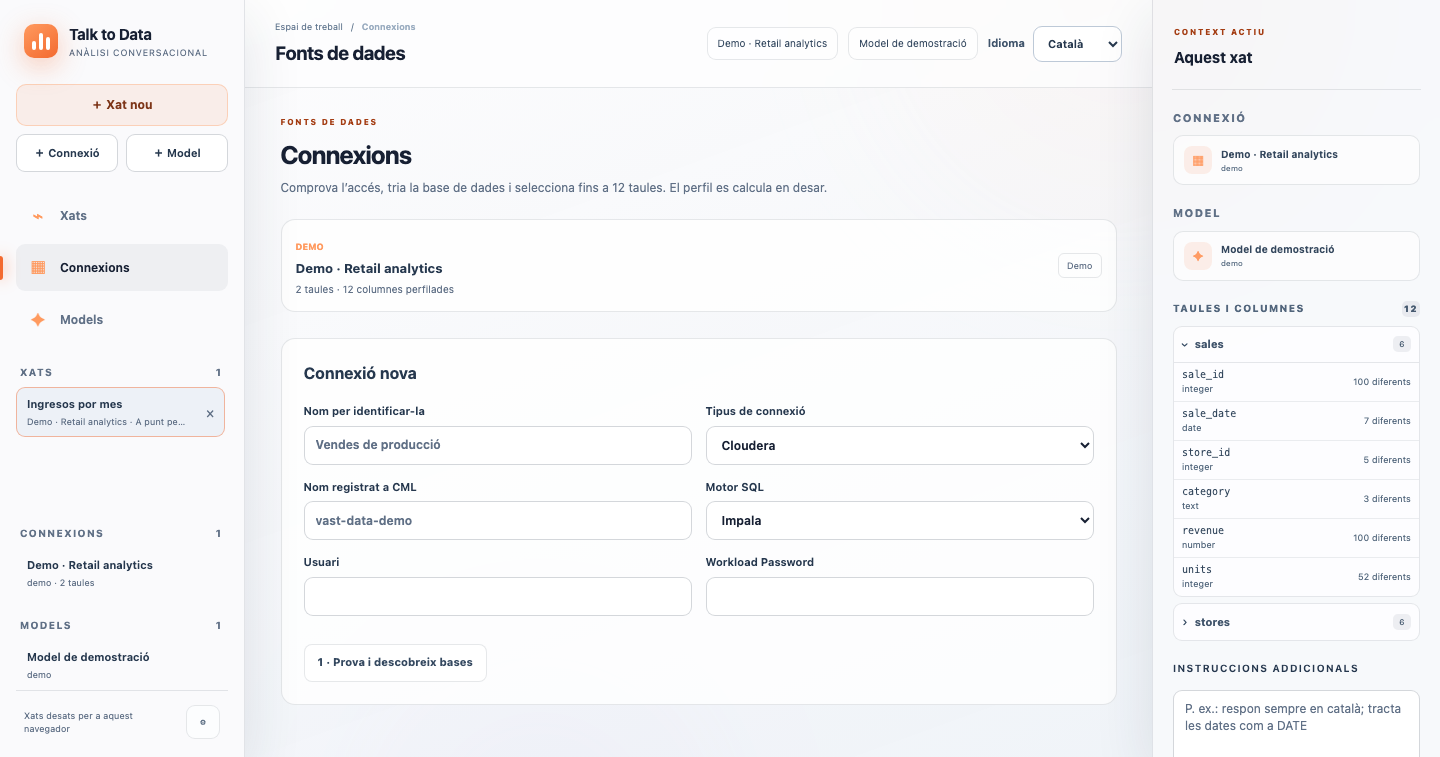
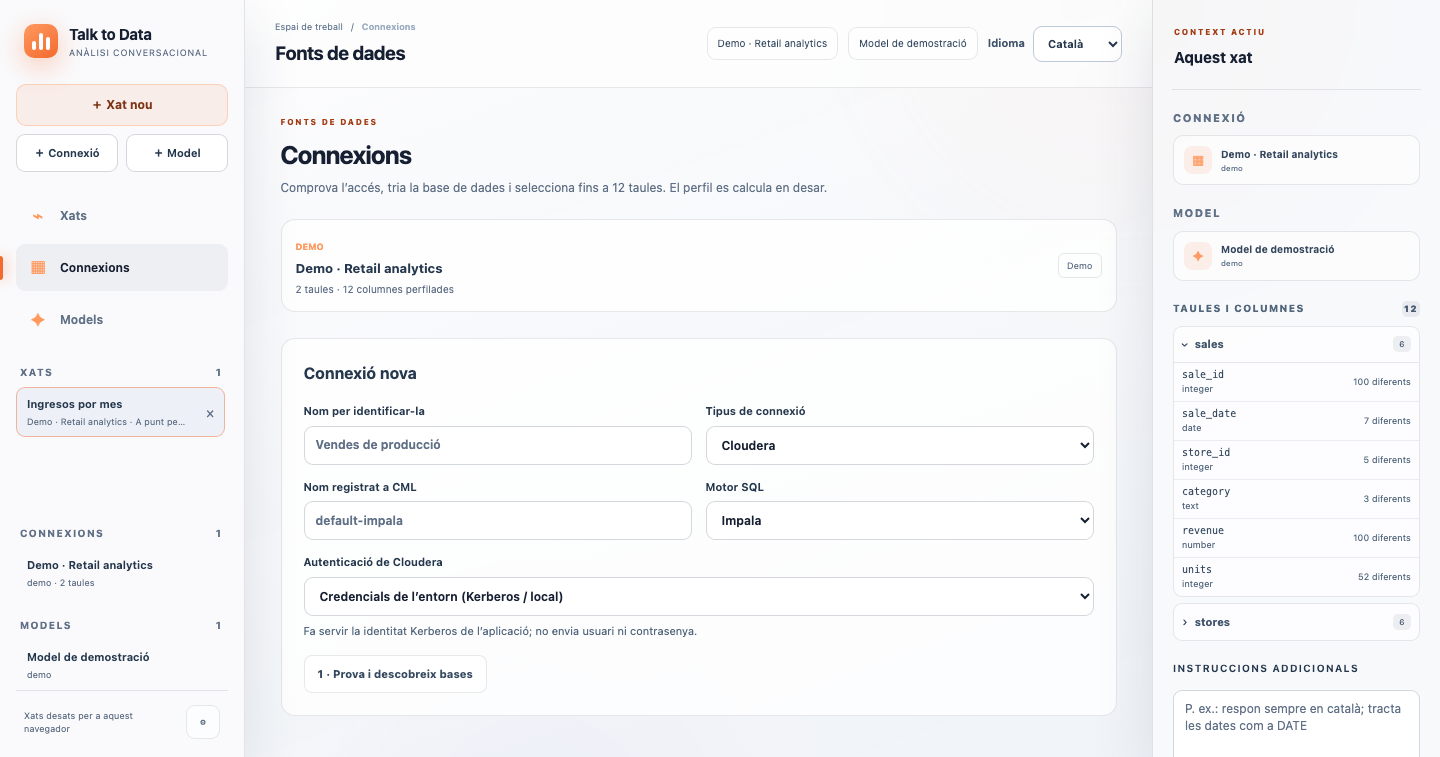
Support runtime Kerberos authentication for CML connections

diff --git a/static/style.css b/static/style.css
@@ -76,6 +76,7 @@ html[data-theme="light"] .eyebrow,html[data-theme="light"] .connection-route spa
 .sidebar .main-nav{margin-top:20px}.sidebar-lists{display:grid;align-content:start;gap:20px;min-height:0;flex:1;overflow:auto;margin-top:22px;padding-right:3px}.sidebar-lists section{min-width:0}.sidebar-lists h2{display:flex;justify-content:space-between;margin:0 4px 7px;color:var(--muted);font-size:10px;font-weight:750;letter-spacing:.13em}.sidebar-lists h2 span{letter-spacing:0}.sidebar-list{display:grid;gap:4px}.sidebar-record{display:flex;align-items:center;min-width:0;border:1px solid transparent;border-radius:9px}.sidebar-record:hover,.sidebar-record.selected{border-color:var(--line);background:rgba(255,255,255,.05)}.sidebar-record button:first-child{min-width:0;flex:1;padding:8px 10px;border:0;color:var(--white);background:transparent;text-align:left;cursor:pointer}.sidebar-record strong,.sidebar-record small{display:block;overflow:hidden;text-overflow:ellipsis;white-space:nowrap}.sidebar-record strong{font-size:11px;font-weight:650}.sidebar-record small{margin-top:2px;color:var(--muted);font-size:9px}.record-delete{width:28px;height:28px;border:0;border-radius:7px;color:var(--muted);background:transparent;cursor:pointer}.record-delete:hover{color:var(--coral);background:rgba(255,120,95,.12)}.sidebar-foot{gap:8px;color:var(--muted);font-size:9px}.sidebar-foot .icon-button{flex:0 0 auto}
 .view-pane{min-height:0;flex:1}.chat-pane{display:flex;flex-direction:column}.management-pane{overflow:auto}.management-content{width:min(900px,100%);margin:0 auto;padding:28px 32px 60px}.management-intro{margin-bottom:22px}.management-intro h2{margin:0 0 5px;font-size:25px;letter-spacing:-.03em}.management-intro p:last-child{max-width:650px;margin:0;color:var(--muted);font-size:12px}.catalog-cards{display:grid;grid-template-columns:repeat(auto-fit,minmax(240px,1fr));gap:10px;margin-bottom:26px}.catalog-card,.editor-card{border:1px solid var(--line);border-radius:14px;background:rgba(255,255,255,.035)}.catalog-card{display:flex;align-items:center;justify-content:space-between;gap:12px;min-width:0;padding:14px}.catalog-card>div{min-width:0}.catalog-card h3{overflow:hidden;margin:4px 0;color:var(--white);font-size:13px;text-overflow:ellipsis;white-space:nowrap}.catalog-card p{overflow:hidden;margin:0;color:var(--muted);font-size:10px;text-overflow:ellipsis;white-space:nowrap}.card-kicker{color:var(--orange-soft);font-size:9px;font-weight:750;text-transform:uppercase}.builtin-badge{padding:5px 8px;border:1px solid var(--line);border-radius:6px;color:var(--muted);font-size:9px}.editor-card{padding:22px}.editor-card h3{margin:0 0 18px;font-size:16px}.editor-card label,.compact-dialog>label,.context-panel label{display:grid;gap:6px;margin-bottom:14px;color:var(--white);font-size:11px;font-weight:650}.editor-card input,.editor-card select,.compact-dialog select,.context-panel textarea{width:100%;min-height:39px;padding:9px 11px;border:1px solid var(--line-strong);border-radius:9px;outline:0;color:var(--white);background:var(--navy-850);font-size:12px}.editor-card input:focus,.editor-card select:focus,.compact-dialog select:focus,.context-panel textarea:focus{border-color:var(--orange-soft);box-shadow:0 0 0 3px rgba(243,106,47,.11)}.editor-card input::placeholder,.context-panel textarea::placeholder{color:var(--muted)}.editor-card label small{font-weight:400}.editor-card .field-row{margin-bottom:0}.editor-card .connector-fields>label{margin-bottom:14px}.editor-actions{display:flex;align-items:center;flex-wrap:wrap;gap:12px;margin-top:14px}.editor-actions .inline-status{flex:1;min-width:180px;margin:0;font-size:11px}.editor-card .primary-button,.editor-card .secondary-button,.compact-dialog .primary-button,.compact-dialog .secondary-button{min-height:38px;font-size:11px}.editor-card .table-picker{max-height:260px;margin-top:10px}.editor-card .table-check{min-height:38px}.editor-card .table-check b{font-size:11px}.editor-card .section-heading p{font-size:10px}.editor-card .text-button{font-size:11px}.editor-card .inline-status.error,.compact-dialog .inline-status.error{color:#ff958b}.editor-card button:disabled,.compact-dialog button:disabled{opacity:.52;cursor:not-allowed}
 .loading-state{margin:80px auto;color:var(--muted);text-align:center}.overview-message .answer-body>p{white-space:pre-wrap;line-height:1.65}.overview-message .answer-body{padding:16px 18px;border:1px solid var(--line);border-radius:13px;background:rgba(255,255,255,.035)}.overview-message .eyebrow{color:var(--orange-soft)}.overview-hint{color:var(--muted);font-size:10px}.context-panel textarea{min-height:95px;resize:vertical;line-height:1.45}.context-panel .context-section>small{color:var(--muted);font-size:9px}.context-panel .context-section>p{color:var(--muted);font-size:11px}.context-panel .schema-table summary{font-size:11px}.context-panel .schema-column b{font-size:10px}.context-panel .schema-column small,.context-panel .schema-column em{font-size:9px}.context-panel .context-label{font-size:10px}.context-panel .context-label.row b{font-size:9px}.source-pill{max-width:180px;overflow:hidden;text-overflow:ellipsis;white-space:nowrap}
+.editor-card .field-help{margin:-7px 0 16px;color:var(--muted);font-size:11px;line-height:1.5}html[data-theme="light"] .editor-card .field-help{color:#52667c}
 .compact-dialog{display:grid;gap:12px;padding:25px}.compact-dialog header{display:flex;justify-content:space-between;gap:16px}.compact-dialog header h2{margin:0;font-size:22px}.compact-dialog header p:last-child{margin:5px 0 0;color:var(--muted);font-size:11px}.compact-dialog header button{align-self:start;width:31px;height:31px;border:1px solid var(--line);border-radius:8px;color:var(--muted);background:transparent;cursor:pointer;font-size:19px}.compact-dialog>label{margin:0}.compact-dialog footer{display:flex;justify-content:flex-end;gap:9px;margin-top:6px}.selection-preview{padding:13px;border:1px solid var(--line);border-radius:9px;color:var(--muted);background:rgba(255,255,255,.025);font-size:11px}.preference-modules{display:flex;flex-wrap:wrap;gap:10px;border:0;padding:0}.preference-modules legend{margin-bottom:7px;color:var(--muted);font-size:11px}.preference-modules label{display:flex;align-items:center;gap:5px;padding:7px 9px;border:1px solid var(--line);border-radius:7px;font-size:11px}.preference-modules input{accent-color:var(--orange)}
 #new-chat-dialog,#preferences-dialog{width:min(530px,calc(100% - 28px));height:auto;max-height:calc(100% - 32px);overflow:auto}.compact-dialog .inline-status{font-size:11px}
 html[data-theme="light"] .side-create,html[data-theme="light"] .catalog-card,html[data-theme="light"] .editor-card,html[data-theme="light"] .overview-message .answer-body{color:#26384e;background:rgba(255,255,255,.82)}html[data-theme="light"] .sidebar-record strong,html[data-theme="light"] .catalog-card h3,html[data-theme="light"] .editor-card label,html[data-theme="light"] .compact-dialog>label,html[data-theme="light"] .context-panel label{color:#26384e}html[data-theme="light"] .sidebar-record:hover,html[data-theme="light"] .sidebar-record.selected{background:#edf1f7}html[data-theme="light"] .editor-card input,html[data-theme="light"] .editor-card select,html[data-theme="light"] .compact-dialog select,html[data-theme="light"] .context-panel textarea{color:#172033;background:white}html[data-theme="light"] .side-create:hover{color:#9e3e16}html[data-theme="light"] .selection-preview{background:#fff}

diff --git a/templates/index.html b/templates/index.html
@@ -5,7 +5,7 @@
   <meta name="theme-color" content="#07111f"><title>Talk to Data</title>
   <script>document.documentElement.dataset.theme=localStorage.getItem('ttd-theme')||'dark'</script>
   <link rel="stylesheet" href="https://unpkg.com/leaflet@1.9.4/dist/leaflet.css">
-  <link rel="stylesheet" href="/static/style.css?v=7">
+  <link rel="stylesheet" href="/static/style.css?v=8">
 </head>
 <body>
   <div class="ambient ambient-one"></div><div class="ambient ambient-two"></div>
@@ -32,7 +32,7 @@
         <div id="connection-cards" class="catalog-cards"></div>
         <form id="connection-form" class="editor-card" novalidate><h3>Nueva conexión</h3>
           <div class="field-row"><label>Nombre para reconocerla<input id="connection-label" required maxlength="80" placeholder="Ventas de producción"></label><label>Tipo de conexión<select id="connection-engine"><option value="cloudera">Cloudera</option><option value="postgresql">PostgreSQL</option><option value="trino">Trino</option></select></label></div>
-          <div class="connector-fields" data-engine="cloudera"><div class="field-row"><label>Nombre registrado en CML<input id="cloudera-name" placeholder="vast-data-demo"></label><label>Motor SQL<select id="cloudera-dialect"><option value="impala">Impala</option><option value="hive">Hive</option></select></label></div><div class="field-row"><label>Usuario<input id="cloudera-user" autocomplete="username"></label><label>Workload Password<input id="cloudera-password" type="password" autocomplete="current-password"></label></div></div>
+          <div class="connector-fields" data-engine="cloudera"><div class="field-row"><label>Nombre registrado en CML<input id="cloudera-name" placeholder="default-impala"></label><label>Motor SQL<select id="cloudera-dialect"><option value="impala">Impala</option><option value="hive">Hive</option></select></label></div><label>Autenticación Cloudera<select id="cloudera-auth-mode" aria-describedby="cloudera-auth-help cloudera-auth-credentials-help"><option value="runtime">Credenciales del runtime (Kerberos / on-premise)</option><option value="credentials">Usuario y Workload Password (Cloud / LDAP)</option></select></label><p id="cloudera-auth-help" class="field-help">Usa la identidad Kerberos de la aplicación; no envía usuario ni contraseña.</p><p id="cloudera-auth-credentials-help" class="field-help" hidden>Envía el usuario y la Workload Password a la conexión CML.</p><div id="cloudera-credential-fields" class="field-row" hidden><label>Usuario<input id="cloudera-user" autocomplete="username"></label><label>Workload Password<input id="cloudera-password" type="password" autocomplete="current-password"></label></div></div>
           <div class="connector-fields" data-engine="postgresql" hidden><label>URL del servidor<input id="postgres-url" placeholder="postgresql://servidor:5432"></label><div class="field-row"><label>Base inicial<input id="postgres-database" placeholder="postgres"></label><label>Usuario<input id="postgres-user" autocomplete="username"></label></div><label>Contraseña<input id="postgres-password" type="password" autocomplete="current-password"></label></div>
           <div class="connector-fields" data-engine="trino" hidden><label>JDBC URL<input id="trino-url" placeholder="jdbc:trino://warehouse:443/catalog/schema"></label><div class="field-row"><label>Usuario<input id="trino-user" autocomplete="username"></label><label>Contraseña <small>(opcional)</small><input id="trino-password" type="password" autocomplete="off"></label></div></div>
           <div class="editor-actions"><button id="discover-connection" type="button" class="secondary-button">1 · Probar y descubrir bases</button><span id="connection-status" class="inline-status" role="status"></span></div>
@@ -51,6 +51,6 @@
   <dialog id="preferences-dialog"><form id="preferences-form" class="compact-dialog" method="dialog"><header><div><p class="eyebrow">PREFERENCIAS</p><h2>Cómo responder</h2></div><button type="button" data-close-dialog aria-label="Cerrar">×</button></header><fieldset class="preference-modules"><legend>Módulos</legend><label><input type="checkbox" data-module="summary" checked> Resumen</label><label><input type="checkbox" data-module="table" checked> Tabla</label><label><input type="checkbox" data-module="chart" checked> Gráfica</label><label><input type="checkbox" data-module="map" checked> Mapa</label><label><input type="checkbox" data-module="sql" checked> SQL</label></fieldset><label>Idioma de la aplicación<select id="ui-language"><option value="es">Español</option><option value="ca">Català</option><option value="eu">Euskara</option><option value="gl">Galego</option><option value="en">English</option><option value="fr">Français</option><option value="it">Italiano</option><option value="de">Deutsch</option></select></label><label>Idioma de las respuestas<select id="model-language"><option value="es">Español</option><option value="ca">Català</option><option value="eu">Euskara</option><option value="gl">Galego</option><option value="en">English</option><option value="fr">Français</option><option value="it">Italiano</option><option value="de">Deutsch</option></select></label><label>Apariencia<select id="ui-theme"><option value="dark">Oscura</option><option value="light">Clara</option></select></label><footer><button type="button" class="secondary-button" data-close-dialog>Cancelar</button><button type="submit" class="primary-button">Guardar preferencias</button></footer></form></dialog>
   <div id="toast" role="status" aria-live="polite"></div>
   <script src="https://unpkg.com/leaflet@1.9.4/dist/leaflet.js" defer></script>
-  <script src="/static/i18n.js?v=7" defer></script>
-  <script src="/static/app.js?v=7" defer></script>
+  <script src="/static/i18n.js?v=8" defer></script>
+  <script src="/static/app.js?v=8" defer></script>
 </body></html>

diff --git a/static/i18n.js b/static/i18n.js
@@ -98,3 +98,13 @@ const accessibilityTranslations = {
   it: {'Nuevo chat':'Nuova chat','Navegación principal':'Navigazione principale','Secciones':'Sezioni','Contexto del chat':'Contesto della chat','Talk to Data, inicio':'Talk to Data, home','Conversational analytics':'Analisi conversazionale'},
   de: {'Nuevo chat':'Neuer Chat','Navegación principal':'Hauptnavigation','Secciones':'Bereiche','Contexto del chat':'Chatkontext','Talk to Data, inicio':'Talk to Data, Startseite','Conversational analytics':'Konversationsanalyse'},
 };
+
+const clouderaAuthTranslations = {
+  ca: {'Autenticación Cloudera':'Autenticació de Cloudera','Credenciales del runtime (Kerberos / on-premise)':'Credencials de l’entorn (Kerberos / local)','Usuario y Workload Password (Cloud / LDAP)':'Usuari i Workload Password (núvol / LDAP)','Usa la identidad Kerberos de la aplicación; no envía usuario ni contraseña.':'Fa servir la identitat Kerberos de l’aplicació; no envia usuari ni contrasenya.','Envía el usuario y la Workload Password a la conexión CML.':'Envia l’usuari i la Workload Password a la connexió CML.','Indica el nombre registrado de la conexión.':'Indica el nom registrat de la connexió.'},
+  eu: {'Autenticación Cloudera':'Cloudera autentifikazioa','Credenciales del runtime (Kerberos / on-premise)':'Exekuzio-inguruneko kredentzialak (Kerberos / lokala)','Usuario y Workload Password (Cloud / LDAP)':'Erabiltzailea eta Workload Password (hodeia / LDAP)','Usa la identidad Kerberos de la aplicación; no envía usuario ni contraseña.':'Aplikazioaren Kerberos identitatea erabiltzen du; ez du erabiltzaile-izenik edo pasahitzik bidaltzen.','Envía el usuario y la Workload Password a la conexión CML.':'Erabiltzailea eta Workload Password bidaltzen dizkio CML konexioari.','Indica el nombre registrado de la conexión.':'Adierazi konexioaren izen erregistratua.'},
+  gl: {'Autenticación Cloudera':'Autenticación de Cloudera','Credenciales del runtime (Kerberos / on-premise)':'Credenciais do contorno (Kerberos / local)','Usuario y Workload Password (Cloud / LDAP)':'Usuario e Workload Password (nube / LDAP)','Usa la identidad Kerberos de la aplicación; no envía usuario ni contraseña.':'Usa a identidade Kerberos da aplicación; non envía usuario nin contrasinal.','Envía el usuario y la Workload Password a la conexión CML.':'Envía o usuario e a Workload Password á conexión CML.','Indica el nombre registrado de la conexión.':'Indica o nome rexistrado da conexión.'},
+  en: {'Autenticación Cloudera':'Cloudera authentication','Credenciales del runtime (Kerberos / on-premise)':'Runtime credentials (Kerberos / on-premises)','Usuario y Workload Password (Cloud / LDAP)':'Username and Workload Password (Cloud / LDAP)','Usa la identidad Kerberos de la aplicación; no envía usuario ni contraseña.':'Uses the application’s Kerberos identity; no username or password is sent.','Envía el usuario y la Workload Password a la conexión CML.':'Sends the username and Workload Password to the CML connection.','Indica el nombre registrado de la conexión.':'Enter the registered connection name.'},
+  fr: {'Autenticación Cloudera':'Authentification Cloudera','Credenciales del runtime (Kerberos / on-premise)':'Identifiants du runtime (Kerberos / sur site)','Usuario y Workload Password (Cloud / LDAP)':'Utilisateur et Workload Password (Cloud / LDAP)','Usa la identidad Kerberos de la aplicación; no envía usuario ni contraseña.':'Utilise l’identité Kerberos de l’application ; aucun identifiant ni mot de passe n’est envoyé.','Envía el usuario y la Workload Password a la conexión CML.':'Envoie le nom d’utilisateur et le Workload Password à la connexion CML.','Indica el nombre registrado de la conexión.':'Indiquez le nom enregistré de la connexion.'},
+  it: {'Autenticación Cloudera':'Autenticazione Cloudera','Credenciales del runtime (Kerberos / on-premise)':'Credenziali del runtime (Kerberos / on-premise)','Usuario y Workload Password (Cloud / LDAP)':'Utente e Workload Password (Cloud / LDAP)','Usa la identidad Kerberos de la aplicación; no envía usuario ni contraseña.':'Usa l’identità Kerberos dell’applicazione; non invia utente né password.','Envía el usuario y la Workload Password a la conexión CML.':'Invia utente e Workload Password alla connessione CML.','Indica el nombre registrado de la conexión.':'Indica il nome registrato della connessione.'},
+  de: {'Autenticación Cloudera':'Cloudera-Authentifizierung','Credenciales del runtime (Kerberos / on-premise)':'Laufzeit-Anmeldedaten (Kerberos / On-Premises)','Usuario y Workload Password (Cloud / LDAP)':'Benutzer und Workload Password (Cloud / LDAP)','Usa la identidad Kerberos de la aplicación; no envía usuario ni contraseña.':'Verwendet die Kerberos-Identität der App; Benutzername und Passwort werden nicht gesendet.','Envía el usuario y la Workload Password a la conexión CML.':'Sendet Benutzername und Workload Password an die CML-Verbindung.','Indica el nombre registrado de la conexión.':'Gib den registrierten Verbindungsnamen ein.'},
+};

diff --git a/static/app.js b/static/app.js
@@ -88,7 +88,7 @@ const translations = {
     'La IA puede cometer errores. Revisa la consulta SQL antes de tomar decisiones.':'L’IA peut se tromper. Vérifiez la requête SQL avant de décider.','tablas':'tables','columnas perfiladas':'colonnes profilées','distintos':'distincts','Eliminar':'Supprimer','Modelo de demostración':'Modèle de démonstration','Modelo local de demostración':'Modèle de démonstration local','Modelo eliminado':'Modèle supprimé','Crea primero una conexión y un modelo.':'Créez d’abord une connexion et un modèle.','El modelo de demostración solo admite datos demo. Prueba y guarda un modelo para esta conexión.':'Le modèle de démonstration accepte seulement les données de démonstration. Testez et enregistrez un modèle pour cette connexion.'
   }
 };
-for (const code of languages) translations[code] = Object.assign({}, translations[code] || {}, extraTranslations[code] || {}, dynamicTranslations[code] || {}, supplementalTranslations[code] || {}, errorTranslations[code] || {}, accessibilityTranslations[code] || {});
+for (const code of languages) translations[code] = Object.assign({}, translations[code] || {}, extraTranslations[code] || {}, dynamicTranslations[code] || {}, supplementalTranslations[code] || {}, errorTranslations[code] || {}, accessibilityTranslations[code] || {}, clouderaAuthTranslations[code] || {});
 const originalText = new WeakMap();
 function t(key) { return (translations[state.uiLanguage]||{})[key]||key; }
 function tf(key, values={}) { return t(key).replace(/\{(\w+)\}/g, (_,name)=>String(values[name]??'')); }
@@ -408,12 +408,26 @@ function initMap(node,result) {
   requestAnimationFrame(()=>map.invalidateSize());
 }
 
+function syncClouderaAuthFields() {
+  const explicit = value('cloudera-auth-mode') === 'credentials';
+  one('cloudera-credential-fields').hidden = !explicit;
+  one('cloudera-auth-help').hidden = explicit;
+  one('cloudera-auth-credentials-help').hidden = !explicit;
+  one('cloudera-user').disabled = !explicit;
+  one('cloudera-password').disabled = !explicit;
+}
 function connectionSpec() {
   const engine=value('connection-engine');
   if (engine==='cloudera') {
-    const name=value('cloudera-name'),username=value('cloudera-user'),workload_password=one('cloudera-password').value;
-    if(!name||!username||!workload_password)throw new Error(t('Indica el nombre registrado, usuario y Workload Password.'));
-    return {engine,name,username,workload_password,dialect:value('cloudera-dialect')};
+    const name=value('cloudera-name'),auth_mode=value('cloudera-auth-mode');
+    if(!name)throw new Error(t('Indica el nombre registrado de la conexión.'));
+    const spec={engine,name,auth_mode,dialect:value('cloudera-dialect')};
+    if(auth_mode==='credentials') {
+      const username=value('cloudera-user'),workload_password=one('cloudera-password').value;
+      if(!username||!workload_password)throw new Error(t('Indica el nombre registrado, usuario y Workload Password.'));
+      Object.assign(spec,{username,workload_password});
+    }
+    return spec;
   }
   if(engine==='postgresql') {
     const url=value('postgres-url'),database=value('postgres-database'),username=value('postgres-user');
@@ -467,6 +481,7 @@ async function saveConnection(event) {
     const saved=await post('/api/workspace/connections',{ticket:state.connectionTicket,label:value('connection-label'),database:value('connection-database'),tables});
     one('connection-form').reset();one('connection-engine').value='cloudera';
     $$('[data-engine]').forEach(panel=>panel.hidden=panel.dataset.engine!=='cloudera');
+    syncClouderaAuthFields();
     resetConnectionDiscovery();await refreshWorkspace();toast(tf('Conexión {name} guardada con su perfil.',{name:saved.label}));
     one('chat-connection').value=saved.id;renderChatSelectors();
   } catch(error) {status('#connection-status',error.message,true);}
@@ -600,6 +615,7 @@ function bindEvents() {
   });
   one('connection-engine').addEventListener('change',event=>{$$('[data-engine]').forEach(panel=>panel.hidden=panel.dataset.engine!==event.target.value);resetConnectionDiscovery();});
   one('cloudera-dialect').addEventListener('change',resetConnectionDiscovery);
+  one('cloudera-auth-mode').addEventListener('change',()=>{syncClouderaAuthFields();resetConnectionDiscovery();});
   $$('#connection-form input').forEach(input=>input.addEventListener('input',()=>{if(input.id!=='connection-label'&&state.connectionTicket)resetConnectionDiscovery();}));
   one('discover-connection').addEventListener('click',discoverConnection);
   one('connection-database').addEventListener('change',()=>loadConnectionTables());
@@ -622,6 +638,7 @@ function bindEvents() {
 }
 async function initialize() {
   bindEvents();
+  syncClouderaAuthFields();
   one('ui-theme').value=state.uiTheme;one('ui-language').value=state.uiLanguage;one('model-language').value=state.modelLanguage;one('top-language').value=state.uiLanguage;
   document.documentElement.lang=state.uiLanguage;
   one('chat-stream').innerHTML=welcome();

diff --git a/tests/test_app.py b/tests/test_app.py
@@ -99,6 +99,21 @@ class TalkToDataTests(unittest.TestCase):
         self.assertNotIn("workload_password", str(saved))
         self.assertEqual(self.client.post("/api/workspace/connections", json={"ticket":tested["ticket"], "label":"Otra", "database":"analytics", "tables":["sales"]}).status_code, 400)
 
+    def test_runtime_cloudera_connection_needs_no_user_or_password(self):
+        spec = {"engine": "cloudera", "name": "default-impala", "dialect": "impala", "auth_mode": "runtime"}
+        with patch.object(catalog, "databases", return_value=["default"]) as databases:
+            response = self.client.post("/api/workspace/connections/discover", json={"spec": spec})
+        self.assertEqual(response.status_code, 200)
+        tested = databases.call_args.args[0]
+        self.assertEqual(tested["auth_mode"], "runtime")
+        self.assertNotIn("username", tested)
+        self.assertNotIn("workload_password", tested)
+        with patch.object(catalog, "databases", return_value=["default"]) as databases:
+            self.client.post("/api/workspace/connections/discover", json={"spec": {**spec, "username": "ignored", "workload_password": "ignored-secret"}})
+        self.assertNotIn("workload_password", databases.call_args.args[0])
+        invalid = self.client.post("/api/workspace/connections/discover", json={"spec": {**spec, "auth_mode": "unknown"}})
+        self.assertEqual(invalid.status_code, 400)
+
     def test_model_requires_successful_test_before_save(self):
         config = {"endpoint":"https://model.example/v1/chat/completions", "model":"example/model", "auth_type":"jwt", "token":"secret"}
         self.assertEqual(self.client.post("/api/workspace/models", json={"ticket":"invalid", "label":"Modelo"}).status_code, 400)
@@ -251,6 +266,28 @@ class TalkToDataTests(unittest.TestCase):
             "vast-data-demo", {"USERNAME": "data-user", "PASSWORD": "workload-secret"},
         )
         connection.close.assert_called_once()
+
+    def test_cml_runtime_authentication_does_not_pass_credentials(self):
+        connection = Mock()
+        connection.get_pandas_dataframe.return_value = "frame"
+        data_v1 = ModuleType("cml.data_v1")
+        data_v1.get_connection = Mock(return_value=connection)
+        cml_package = ModuleType("cml")
+        cml_package.data_v1 = data_v1
+        with patch.dict(sys.modules, {"cml": cml_package, "cml.data_v1": data_v1}):
+            result = catalog._cml_query({"name": "default-impala", "auth_mode": "runtime"}, "SHOW DATABASES")
+        self.assertEqual(result, "frame")
+        data_v1.get_connection.assert_called_once_with("default-impala")
+        connection.close.assert_called_once()
+
+    def test_cml_runtime_kerberos_error_explains_app_identity(self):
+        data_v1 = ModuleType("cml.data_v1")
+        data_v1.get_connection = Mock(side_effect=RuntimeError("No Kerberos credentials available (default cache: FILE:/tmp/krb5cc_8536)"))
+        cml_package = ModuleType("cml")
+        cml_package.data_v1 = data_v1
+        with patch.dict(sys.modules, {"cml": cml_package, "cml.data_v1": data_v1}):
+            with self.assertRaisesRegex(RuntimeError, "Run as.*Hadoop Authentication"):
+                catalog._cml_query({"name": "default-impala", "auth_mode": "runtime"}, "SHOW DATABASES")
 
     def test_impala_failure_preserves_engine_message_and_closes_connection(self):
         connection = Mock()

diff --git a/data_connector.py b/data_connector.py
@@ -146,21 +146,37 @@ class DataCatalog:
             import cml.data_v1 as cmldata
         except ImportError as exc:
             raise RuntimeError("cml.data_v1 no está disponible en este entorno. Ejecuta la app dentro de CML o usa el modo demo.") from exc
-        credentials = {
-            "USERNAME": str(spec.get("username", "")).strip(),
-            "PASSWORD": str(spec.get("workload_password", "")),
-        }
-        if not credentials["USERNAME"] or not credentials["PASSWORD"]:
-            raise ValueError("Indica el usuario y la Workload Password de Cloudera.")
+        auth_mode = str(spec.get("auth_mode") or ("credentials" if spec.get("username") or spec.get("workload_password") else "runtime")).strip().lower()
+        if auth_mode not in {"runtime", "credentials"}:
+            raise ValueError("Método de autenticación de Cloudera no válido.")
+        credentials = None
+        if auth_mode == "credentials":
+            credentials = {"USERNAME": str(spec.get("username", "")).strip(),
+                           "PASSWORD": str(spec.get("workload_password", ""))}
+            if not credentials["USERNAME"] or not credentials["PASSWORD"]:
+                raise ValueError("Indica el usuario y la Workload Password de Cloudera.")
         conn = None
         query_failed = False
         try:
-            conn = cmldata.get_connection(spec["name"], credentials)
+            if credentials is not None:
+                conn = cmldata.get_connection(spec["name"], credentials)
+            else:
+                conn = cmldata.get_connection(spec["name"])
             return conn.get_pandas_dataframe(sql)
         except Exception as exc:
             query_failed = True
             dialect = "Hive" if spec.get("dialect") == "hive" else "Impala"
-            raise RuntimeError(f"{dialect} ({spec['name']}): {str(exc).strip() or type(exc).__name__}") from exc
+            detail = str(exc).strip() or type(exc).__name__
+            if "no kerberos credentials" in detail.lower():
+                if auth_mode == "runtime":
+                    detail = ("La identidad que ejecuta esta app no tiene un ticket Kerberos accesible. "
+                              "Comprueba 'Run as' y Hadoop Authentication de esa identidad, y reinicia la app. "
+                              "Detalle: " + detail)
+                else:
+                    detail = ("La conexión registrada está intentando usar Kerberos pese a recibir usuario y clave. "
+                              "Comprueba su autenticación y prueba el modo de credenciales del runtime. "
+                              "Detalle: " + detail)
+            raise RuntimeError(f"{dialect} ({spec['name']}): {detail}") from exc
         finally:
             if conn is not None:
                 try:

diff --git a/app.py b/app.py
@@ -121,17 +121,23 @@ def selected_connection(payload):
         name = str(direct.get("name", ""))
         if not re.fullmatch(r"[A-Za-z0-9_. -]{1,200}", name):
             raise ValueError("Indica un nombre válido de conexión registrada en Cloudera.")
+        auth_mode = str(direct.get("auth_mode") or ("credentials" if direct.get("username") or direct.get("workload_password") else "runtime")).strip().lower()
+        if auth_mode not in {"runtime", "credentials"}:
+            raise ValueError("Selecciona un método de autenticación de Cloudera válido.")
         username = str(direct.get("username", "")).strip()
         workload_password = str(direct.get("workload_password", ""))
-        if not username or not workload_password:
+        if auth_mode == "credentials" and (not username or not workload_password):
             raise ValueError("Indica el usuario y la Workload Password de Cloudera.")
-        return {
+        spec = {
             "name": name,
             "label": str(direct.get("label") or name), "engine": "cloudera",
             "cml_registered": True,
             "dialect": "hive" if direct.get("dialect") == "hive" else "impala",
-            "username": username, "workload_password": workload_password,
+            "auth_mode": auth_mode,
         }
+        if auth_mode == "credentials":
+            spec.update(username=username, workload_password=workload_password)
+        return spec
     name = payload.get("connection")
     for item in catalog.connections():
         if item["name"] == name:

diff --git a/README.md b/README.md
@@ -70,22 +70,28 @@ Abre **Conexiones → Nueva conexión**. **Probar y descubrir bases** valida el 
 
 ### Cloudera: Impala o Hive
 
-Indica el **nombre registrado en CML** (el mismo del widget de conexiones), motor **Impala** o **Hive**, usuario y **Workload Password**. No hace falta una API Key ni enumerar automáticamente las conexiones del usuario. Se usa `cml.data_v1`:
+Indica el **nombre registrado en CML** (el mismo del widget de conexiones) y el motor **Impala** o **Hive**. Después elige la autenticación de **esa conexión**; no hace falta una API Key ni enumerar automáticamente las conexiones del usuario:
+
+| Opción de la app | Cuándo usarla | Llamada a `cml.data_v1` |
+| --- | --- | --- |
+| **Credenciales del runtime (Kerberos / on-premise)** | La conexión CML usa el ticket Kerberos de la identidad que ejecuta la aplicación; por ejemplo `default-impala` en un Workbench on-premise | `get_connection(nombre)` |
+| **Usuario y Workload Password (Cloud / LDAP)** | La conexión registrada acepta usuario y contraseña explícitos | `get_connection(nombre, {"USERNAME": usuario, "PASSWORD": clave})` |
+
+El modo del runtime **no solicita ni almacena** usuario o contraseña para esa conexión. El siguiente ejemplo reproduce el snippet de Cloudera on-premise:
 
 ```python
 import cml.data_v1 as cmldata
 
-conn = cmldata.get_connection(
-    "vast-data-demo",
-    {"USERNAME": "usuario", "PASSWORD": "workload-password"},
-)
+conn = cmldata.get_connection("default-impala")
 try:
     databases = conn.get_pandas_dataframe("SHOW DATABASES")
 finally:
     conn.close()
 ```
 
-La conexión se abre para cada consulta y se cierra al terminar. El motor seleccionado determina si el prompt pide **Impala SQL** o **HiveQL**. A `SHOW`, `DESCRIBE` y `EXPLAIN` no se les añade un `LIMIT` sintácticamente inválido: las filas se limitan en la respuesta.
+Selecciona el modo según la autenticación real de la conexión registrada, no solo según si el despliegue es Cloud u on-premise: un Virtual Warehouse on-premise también puede usar LDAP. Si el modo Kerberos devuelve «No Kerberos credentials available», comprueba que la **identidad que ejecuta la app** dispone de ticket; el indicador verde de tu cuenta personal no cubre una app que se ejecute como cuenta de servicio. [Autenticación de Cloudera AI 1.5.5](https://docs.cloudera.com/machine-learning/1.5.5/site-administration/topics/ml-kerberos.html), [cuentas de servicio](https://docs.cloudera.com/machine-learning/1.5.5/site-administration/topics/ml-service-accounts-auth-hadoop.html).
+
+La conexión se abre para cada consulta y se cierra al terminar. Las conexiones ya guardadas mantienen su método original; para usar otro método, prueba y guarda una nueva conexión y crea un chat asociado a ella. El motor seleccionado determina si el prompt pide **Impala SQL** o **HiveQL**. A `SHOW`, `DESCRIBE` y `EXPLAIN` no se les añade un `LIMIT` sintácticamente inválido: las filas se limitan en la respuesta.
 
 ### PostgreSQL
 
